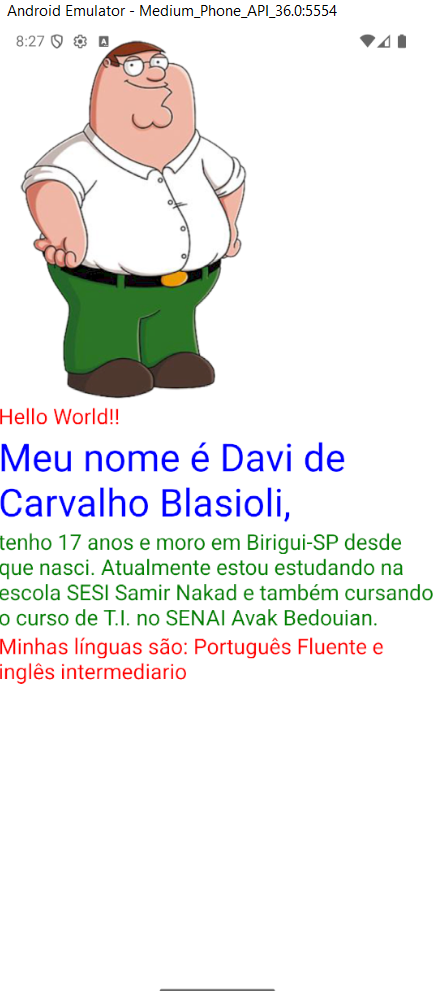
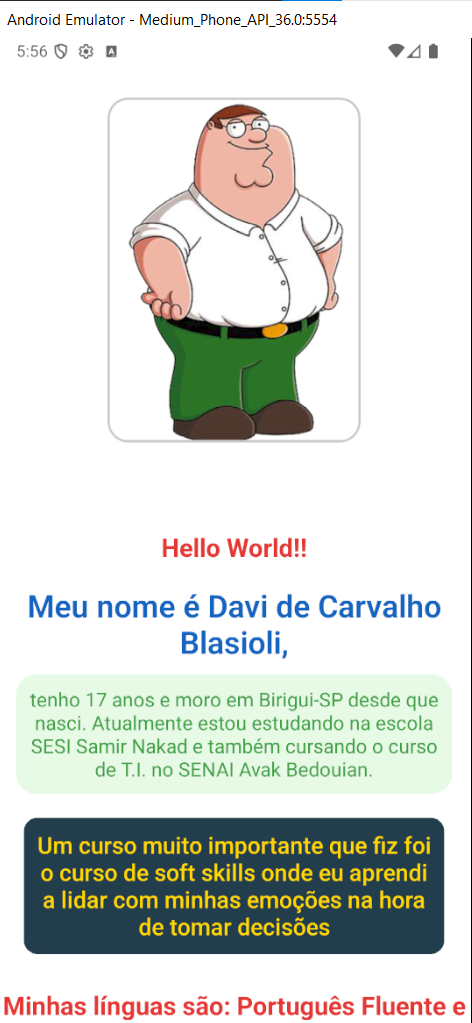
Add files via upload

diff --git a/App.js b/App.js
@@ -1,39 +1,142 @@
 import { StatusBar } from 'expo-status-bar';
-import {Image, ScrollView, StyleSheet, Text, View} from 'react-native';
+import { Image, ScrollView, StyleSheet, Text, View } from 'react-native';
 
 export default function App() {
   return (
-    <ScrollView>
-      <Image style={styles.imagem} source={require('./assets/Peter_Griffin.png')}></Image>
-      <Text style={styles.texto1}>Hello World!!</Text>
-      <Text style={styles.texto3}>Meu nome é Davi de Carvalho Blasioli, </Text>
-      <Text style={styles.texto2}>tenho 17 anos e moro em Birigui-SP desde que nasci. Atualmente estou estudando na escola SESI Samir Nakad e também cursando o curso de T.I. no SENAI Avak Bedouian.</Text>
-      <Text style={styles.texto1}>Minhas línguas são: Português Fluente e inglês intermediario</Text>
-      <StatusBar style="auto" />
-    </ScrollView>
+      <ScrollView>
+        <View style={styles.centralizar}>
+          <Image style={styles.imagem} source={require('./assets/Peter_Griffin.png')} />
+        </View>
+        <Text style={styles.texto1}>
+          Hello World!!
+        </Text>
+        <Text style={styles.texto3}>
+          Meu nome é Davi de Carvalho Blasioli,
+        </Text>
+        <Text style={styles.texto2}>
+          tenho 17 anos e moro em Birigui-SP desde que nasci.
+          Atualmente estou estudando na escola SESI Samir Nakad e também cursando o curso de T.I. no SENAI Avak Bedouian.
+        </Text>
+        <Text style={styles.texto4}>
+          Um curso muito importante que fiz foi o curso de soft skills onde eu aprendi a lidar com minhas emoções na hora de tomar decisões
+        </Text>
+        <Text style={styles.texto1}>
+          Minhas línguas são: Português Fluente e inglês intermediário
+        </Text>
+        <Text style={styles.texto5}>
+          uma experiencia que tenho foi desenvolver 1 milhão de sites sozinho
+        </Text>
+        <Text style={styles.tituloSecao}>
+          Competências e habilidades
+        </Text>
+        <Text style={styles.textoHabilidades}>
+          • Programação Web (HTML, CSS, JavaScript)
+          {'\n'}• Desenvolvimento em React e React Native
+          {'\n'}• Trabalho em equipe e comunicação eficaz
+          {'\n'}• Resolução de problemas e pensamento lógico
+          {'\n'}• Liderança em projetos de T.I.
+          {'\n'}• Aprendizagem rápida de novas tecnologias
+        </Text>
+        <StatusBar style="auto" />
+      </ScrollView>
   );
 }
 
 const styles = StyleSheet.create({
+  centralizar: {
+    alignItems: 'center',
+    justifyContent: 'center',
+    width: '100%',
+    paddingBottom: 40,
+    paddingTop: 40,
+  },
   container: {
     flex: 1,
-    backgroundColor: '#fff',
     alignItems: 'center',
   },
-  texto1:{
-    color: 'red',
+  imagem: {
+    width: 220,
+    height: 300,
+    borderRadius: 18,
+    marginBottom: 24,
+    marginTop: 12,
+    borderWidth: 2,
+    borderColor: '#cacacb',
+  },
+  texto1: {
+    color: '#e53935',
+    fontSize: 22,
+    fontWeight: 'bold',
+    textAlign: 'center',
+    marginTop: 12,
+    marginBottom: 8,
+  },
+  texto2: {
+    color: '#43a047',
+    fontSize: 17,
+    backgroundColor: '#e6fae6',
+    marginHorizontal: 16,
+    marginBottom: 16,
+    textAlign: 'center',
+    borderRadius: 18,
+    padding: 10,
+  },
+  texto3: {
+    color: '#1565c0',
+    fontSize: 27,
+    fontWeight: '600',
+    marginVertical: 10,
+    textAlign: 'center',
+  },
+  texto4: {
+    color: '#ffd600',
+    backgroundColor: '#213b4c',
+    marginHorizontal: 23,
+    borderRadius: 12,
     fontSize: 20,
+    marginBottom: 18,
+    marginTop: 5,
+    textAlign: 'center',
+    fontWeight: '500',
+    padding: 10,
   },
-  texto2:{
-    color: 'green',
-    fontSize: 20,
+  texto5: {
+    color: '#fff',
+    margin: 10,
+    fontSize: 22,
+    textAlign: 'center',
+    fontStyle: 'italic',
+    fontWeight: '600',
+    letterSpacing: 1,
+    backgroundColor: 'darkgray',
+    marginHorizontal: 23,
+    borderRadius: 12,
+    marginBottom: 18,
+    marginTop: 5,
+
+    padding: 10,
   },
-  texto3:{
-    color: 'blue',
-    fontSize: 36,
+  tituloSecao: {
+    color: '#1565c0',
+    fontSize: 24,
+    fontWeight: 'bold',
+    marginTop: 20,
+    marginBottom: 8,
+    textAlign: 'center',
+    letterSpacing: 1,
   },
-  imagem:{
-    width: 250,
-    height: 350,
+
+  textoHabilidades: {
+    color: '#333',
+    fontSize: 18,
+    backgroundColor: '#e3edf8',
+    marginHorizontal: 18,
+    marginBottom: 52,
+    textAlign: 'left',
+    borderRadius: 14,
+    padding: 14,
+    lineHeight: 26,
+    fontWeight: '500',
   },
+
 });
